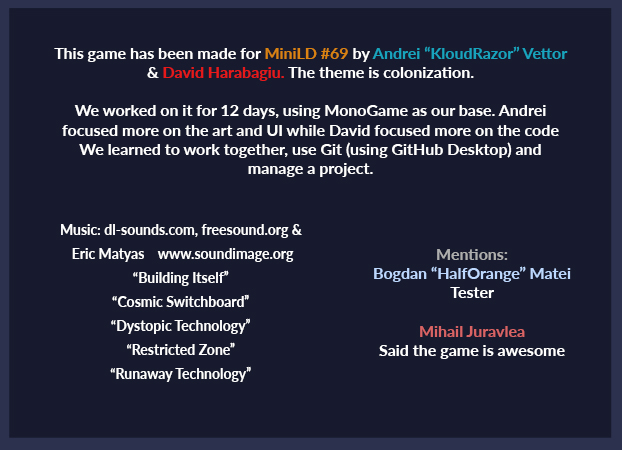
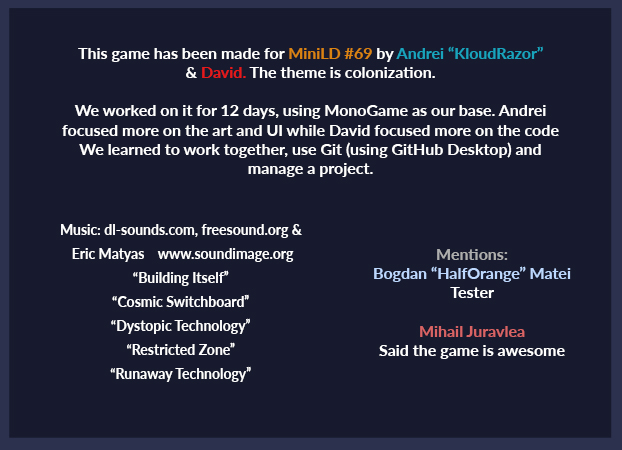
Removed Debug and Real Names

Changed region(s): [[0.0916, 0.0933, 0.9164, 0.1867]]

diff --git a/coolgame/System/Game.cs b/coolgame/System/Game.cs
@@ -135,98 +135,82 @@ namespace coolgame
 
                 if (InputManager.KeyPress(Keys.D))
                 {
-                    GameManager.godMode++;
-                    if (GameManager.godMode == 4)
-                        GameManager.godMode = 0;
+                    //GameManager.godMode++;
+                    //if (GameManager.godMode == 4)
+                    //    GameManager.godMode = 0;
 
-                    switch (GameManager.godMode)
-                    {
-                        case 0:
-                            {
-                                Debug.Log("Normal mode");
-                                break;
-                            }
-                        case 1:
-                            {
-                                Debug.Log("Demigod mode");
-                                break;
-                            }
-                        case 2:
-                            {
-                                Debug.Log("God mode");
-                                break;
-                            }
-                        case 3:
-                            {
-                                Debug.Log("Chuck Norris mode");
-                                break;
-                            }
-                    }
+                    //switch (GameManager.godMode)
+                    //{
+                    //    case 0:
+                    //        {
+                    //            Debug.Log("Normal mode");
+                    //            break;
+                    //        }
+                    //    case 1:
+                    //        {
+                    //            Debug.Log("Demigod mode");
+                    //            break;
+                    //        }
+                    //    case 2:
+                    //        {
+                    //            Debug.Log("God mode");
+                    //            break;
+                    //        }
+                    //    case 3:
+                    //        {
+                    //            Debug.Log("Chuck Norris mode");
+                    //            break;
+                    //        }
+                    //}
                 }
 
-                if (InputManager.KeyPress(Keys.Right) && GameManager.godMode > 0)
-                {
-                    enemySpawner.SetWave(enemySpawner.Wave + 1, guiManager);
-                    Debug.Log("Wave set to " + enemySpawner.Wave.ToString());
-                }
+                //if (InputManager.KeyPress(Keys.Right) && GameManager.godMode > 0)
+                //{
+                //    enemySpawner.SetWave(enemySpawner.Wave + 1, guiManager);
+                //    Debug.Log("Wave set to " + enemySpawner.Wave.ToString());
+                //}
 
-                if (InputManager.KeyPress(Keys.Left) && GameManager.godMode > 0)
-                {
-                    enemySpawner.SetWave(enemySpawner.Wave - 1, guiManager);
-                    Debug.Log("Wave set to " + enemySpawner.Wave.ToString());
-                }
-
-                if (InputManager.KeyPress(Keys.R))
-                {
-                    GameManager.State = GameState.StartMenu;
-                }
-
-                if (InputManager.KeyPress(Keys.H))
-                {
-                    guiManager.DisplayMessage("Wave 1: Crawlers are warm and fuzzy");
-                }
+                //if (InputManager.KeyPress(Keys.Left) && GameManager.godMode > 0)
+                //{
+                //    enemySpawner.SetWave(enemySpawner.Wave - 1, guiManager);
+                //    Debug.Log("Wave set to " + enemySpawner.Wave.ToString());
+                //}
             }
 
+            //if (InputManager.KeyPress(Keys.C))
+            //{
+            //    if(GameManager.FrameLimiting)
+            //    {
+            //        GameManager.SetFrameLimiting(this, false);
+            //    }
+            //    else
+            //    {
+            //        GameManager.SetFrameLimiting(this, true);
+            //    }
+            //    Debug.Log("Frame Limiting", GameManager.FrameLimiting);
+            //}
 
-            if (InputManager.KeyPress(Keys.T))
-            {
-                GameManager.State = GameState.Game;
-            }
+            //if (InputManager.KeyPress(Keys.F))
+            //{
+            //    Debug.ToggleFPS();
+            //    Debug.Log("Toggled FPS");
+            //}
+            //if (InputManager.KeyPress(Keys.M))
+            //{
+            //    SoundManager.MuteMusic();
+            //    Debug.Log("Toggled Mute");
+            //}
 
-            if (InputManager.KeyPress(Keys.C))
-            {
-                if(GameManager.FrameLimiting)
-                {
-                    GameManager.SetFrameLimiting(this, false);
-                }
-                else
-                {
-                    GameManager.SetFrameLimiting(this, true);
-                }
-                Debug.Log("Frame Limiting", GameManager.FrameLimiting);
-            }
-
-            if (InputManager.KeyPress(Keys.F))
-            {
-                Debug.ToggleFPS();
-                Debug.Log("Toggled FPS");
-            }
-            if (InputManager.KeyPress(Keys.M))
-            {
-                SoundManager.MuteMusic();
-                Debug.Log("Toggled Mute");
-            }
-
-            if (InputManager.KeyPress(Keys.B))
-            {
-                Debug.ToggleRectangles();
-                Debug.Log("Toggled Collision Boxes");
-            }
-            if (InputManager.KeyPress(Keys.L))
-            {
-                Debug.ToggleDebugLog();
-                Debug.Log("Toggled Debug Log");
-            }
+            //if (InputManager.KeyPress(Keys.B))
+            //{
+            //    Debug.ToggleRectangles();
+            //    Debug.Log("Toggled Collision Boxes");
+            //}
+            //if (InputManager.KeyPress(Keys.L))
+            //{
+            //    Debug.ToggleDebugLog();
+            //    Debug.Log("Toggled Debug Log");
+            //}
         }
 
         protected override void Draw(GameTime gameTime)
